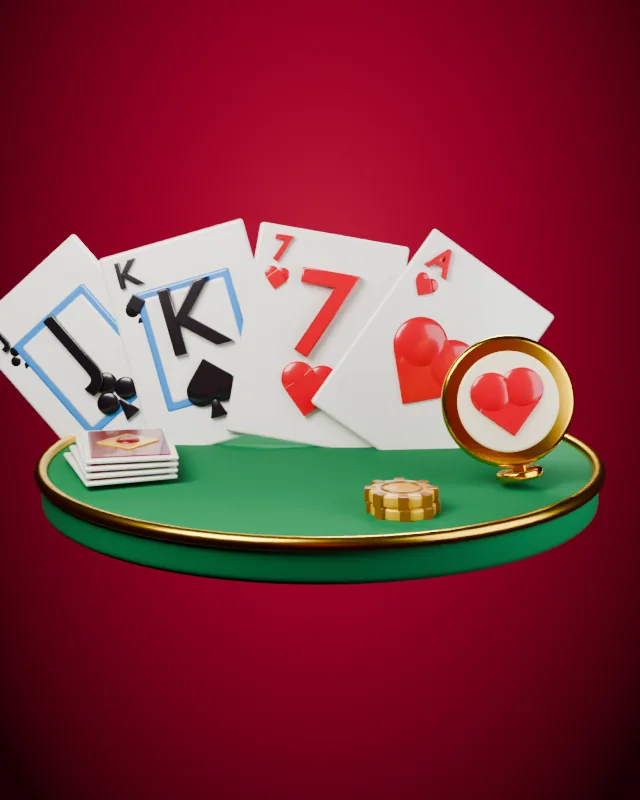
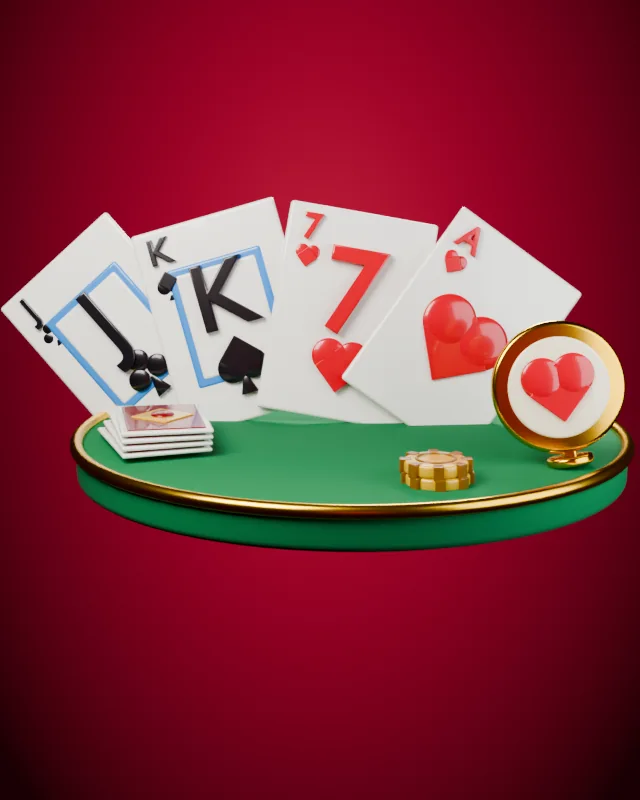
Register Poker World Tour
Claude-Session: https://claude.ai/code/session_01MHknEQHwoRP7PDrNv3vHVE

Changed region(s): [[0.0, 0.25, 1.0, 0.75]]

diff --git a/games/poker/ui/str_app.js b/games/poker/ui/str_app.js
@@ -40,13 +40,13 @@ export default {
     'moment.qualK': 'Classificação', 'moment.qual': 'Você está no Mundial!', 'moment.qualText': 'O convite chegou. A cerimônia de entrada espera por você no Campeonato Mundial.',
     'moment.titleK': 'Título conquistado', 'moment.titleText': 'Você venceu {e}.',
     'moment.storyK': 'A história continua', 'moment.levelK': 'Subiu de nível', 'moment.level': 'Nível {n}', 'moment.levelText': 'Novos prêmios cosméticos podem estar à espera. Nunca há vantagem nas cartas.',
-    'moment.achK': 'Conquistas', 'moment.ach': '{n} conquista(s) nova(s)', 'moment.rewK': 'Recompensas', 'moment.rew': 'Novos itens', 'moment.rewHint': 'Equipe no seu perfil.',
+    'moment.achK': 'Conquistas', 'moment.ach': (p) => (p.n === 1 ? '1 nova conquista' : p.n + ' novas conquistas'), 'moment.rewK': 'Recompensas', 'moment.rew': 'Novos itens', 'moment.rewHint': 'Equipe no seu perfil.',
     'moment.seasonK': 'Temporada {n} encerrada', 'moment.seasonChamp': 'Campeão da temporada!', 'moment.seasonEnd': 'Você terminou em {r}', 'moment.seasonText': '{p} pontos · {e} torneios · {w} vitórias',
     'moment.tutK': 'Tutorial', 'moment.tut': 'Você aprendeu o básico', 'moment.tutText': 'Agora é a hora de ir para a Carreira e subir até o Mundial.',
     'prof.title': 'Perfil', 'prof.edit': 'Editar nome', 'prof.name': 'Nome do jogador', 'prof.rep': 'Reputação {n}', 'prof.stats': 'Estatísticas', 'prof.custom': 'Personalização', 'prof.ach': 'Conquistas', 'prof.results': 'Resultados', 'prof.settings': 'Ajustes', 'prof.reset': 'Apagar carreira',
     'prof.resetTitle': 'Apagar carreira?', 'prof.resetText': 'Todo o progresso, títulos e rankings serão perdidos.', 'prof.resetOk': 'Continuar', 'prof.resetTitle2': 'Tem certeza?', 'prof.resetText2': 'Esta ação não pode ser desfeita.', 'prof.resetOk2': 'Apagar tudo',
     'st2.played': 'Torneios', 'st2.wins': 'Vitórias', 'st2.final': 'Mesas finais', 'st2.cash': 'Premiações', 'st2.best': 'Melhor posição', 'st2.winnings': 'Ganhos', 'st2.ko': 'Eliminações', 'st2.rivals': 'Rivais', 'st2.hands': 'Mãos ganhas', 'st2.pot': 'Maior pote', 'st2.titles': 'Títulos', 'st2.duels': 'Duelos',
-    'cs.avatar': 'Avatar', 'cs.frame': 'Moldura', 'cs.theme': 'Mesa', 'cs.back': 'Verso das cartas', 'cs.deck': 'Baralho', 'cs.win': 'Animação de vitória', 'cs.title': 'Título', 'cs.locked': 'Bloqueado: {r}',
+    'cs.avatar': 'Avatar', 'cs.frame': 'Moldura', 'cs.theme': 'Mesa', 'cs.back': 'Verso das cartas', 'cs.deck': 'Baralho', 'cs.win': 'Animação de vitória', 'cs.title': 'Título', 'cs.table': 'Mesa especial', 'cs.locked': 'Bloqueado: {r}',
     'set.auto': 'Próxima mão automática', 'legal.virtual': 'Somente fichas virtuais. Sem dinheiro real e sem prêmios reais.',
     'sg.title': 'Sit & Go',
     'res.of': 'de {n}', 'res.finalTable': 'mesa final', 'res.cashed': 'nos prêmios', 'res.winner': 'Campeão do torneio!', 'res.prize': 'Prêmio', 'res.points': 'Pontos', 'res.ko': 'Eliminações', 'res.hands': 'Mãos', 'res.xp': '+{n} XP', 'res.rep': '+{n} de reputação', 'res.levelUp': 'Subiu de nível!', 'res.rivals': 'Rivais na mesa', 'res.rivalPlace': 'Terminou em {p}', 'res.youKo': 'Você eliminou', 'res.koYou': 'Eliminou você', 'res.beat': 'Você ficou à frente', 'res.lostTo': 'Ficou à sua frente', 'res.unlocked': 'Abriu: {c}', 'res.lastHand': 'Mão decisiva', 'res.noShow': 'A mão terminou sem showdown.',
@@ -106,13 +106,13 @@ export default {
     'moment.qualK': 'Qualification', 'moment.qual': 'You are in the Worlds!', 'moment.qualText': 'The invitation has arrived. The entry ceremony awaits you at the World Championship.',
     'moment.titleK': 'Title won', 'moment.titleText': 'You won {e}.',
     'moment.storyK': 'The story goes on', 'moment.levelK': 'Level up', 'moment.level': 'Level {n}', 'moment.levelText': 'New cosmetic rewards may be waiting. Levels never change the cards.',
-    'moment.achK': 'Achievements', 'moment.ach': '{n} new achievement(s)', 'moment.rewK': 'Rewards', 'moment.rew': 'New items', 'moment.rewHint': 'Equip them on your profile.',
+    'moment.achK': 'Achievements', 'moment.ach': (p) => (p.n === 1 ? '1 new achievement' : p.n + ' new achievements'), 'moment.rewK': 'Rewards', 'moment.rew': 'New items', 'moment.rewHint': 'Equip them on your profile.',
     'moment.seasonK': 'Season {n} over', 'moment.seasonChamp': 'Season champion!', 'moment.seasonEnd': 'You finished {r}', 'moment.seasonText': '{p} points · {e} tournaments · {w} wins',
     'moment.tutK': 'Tutorial', 'moment.tut': 'You know the basics', 'moment.tutText': 'Time to head to the Career and climb all the way to the Worlds.',
     'prof.title': 'Profile', 'prof.edit': 'Edit name', 'prof.name': 'Player name', 'prof.rep': 'Reputation {n}', 'prof.stats': 'Statistics', 'prof.custom': 'Customization', 'prof.ach': 'Achievements', 'prof.results': 'Results', 'prof.settings': 'Settings', 'prof.reset': 'Erase career',
     'prof.resetTitle': 'Erase career?', 'prof.resetText': 'All progress, titles and rankings will be lost.', 'prof.resetOk': 'Continue', 'prof.resetTitle2': 'Are you sure?', 'prof.resetText2': 'This cannot be undone.', 'prof.resetOk2': 'Erase everything',
     'st2.played': 'Tournaments', 'st2.wins': 'Wins', 'st2.final': 'Final tables', 'st2.cash': 'Cashes', 'st2.best': 'Best finish', 'st2.winnings': 'Winnings', 'st2.ko': 'Knockouts', 'st2.rivals': 'Rivals met', 'st2.hands': 'Hands won', 'st2.pot': 'Biggest pot', 'st2.titles': 'Titles', 'st2.duels': 'Duels',
-    'cs.avatar': 'Avatar', 'cs.frame': 'Frame', 'cs.theme': 'Table', 'cs.back': 'Card back', 'cs.deck': 'Deck', 'cs.win': 'Win animation', 'cs.title': 'Title', 'cs.locked': 'Locked: {r}',
+    'cs.avatar': 'Avatar', 'cs.frame': 'Frame', 'cs.theme': 'Table', 'cs.back': 'Card back', 'cs.deck': 'Deck', 'cs.win': 'Win animation', 'cs.title': 'Title', 'cs.table': 'Special table', 'cs.locked': 'Locked: {r}',
     'set.auto': 'Automatic next hand', 'legal.virtual': 'Virtual chips only. No real money and no real prizes.',
     'sg.title': 'Sit & Go',
     'res.of': 'of {n}', 'res.finalTable': 'final table', 'res.cashed': 'in the money', 'res.winner': 'Tournament champion!', 'res.prize': 'Prize', 'res.points': 'Points', 'res.ko': 'Knockouts', 'res.hands': 'Hands', 'res.xp': '+{n} XP', 'res.rep': '+{n} reputation', 'res.levelUp': 'Level up!', 'res.rivals': 'Rivals at the table', 'res.rivalPlace': 'Finished {p}', 'res.youKo': 'You knocked out', 'res.koYou': 'Knocked you out', 'res.beat': 'You finished ahead', 'res.lostTo': 'Finished ahead of you', 'res.unlocked': 'Unlocked: {c}', 'res.lastHand': 'The decisive hand', 'res.noShow': 'The hand ended without a showdown.',
@@ -172,13 +172,13 @@ export default {
     'moment.qualK': 'Clasificación', 'moment.qual': '¡Estás en el Mundial!', 'moment.qualText': 'Llegó la invitación. La ceremonia de entrada te espera en el Campeonato Mundial.',
     'moment.titleK': 'Título conseguido', 'moment.titleText': 'Ganaste {e}.',
     'moment.storyK': 'La historia continúa', 'moment.levelK': 'Subida de nivel', 'moment.level': 'Nivel {n}', 'moment.levelText': 'Pueden esperarte nuevos premios cosméticos. Los niveles nunca cambian las cartas.',
-    'moment.achK': 'Logros', 'moment.ach': '{n} logro(s) nuevo(s)', 'moment.rewK': 'Recompensas', 'moment.rew': 'Nuevos objetos', 'moment.rewHint': 'Equípalos en tu perfil.',
+    'moment.achK': 'Logros', 'moment.ach': (p) => (p.n === 1 ? '1 logro nuevo' : p.n + ' logros nuevos'), 'moment.rewK': 'Recompensas', 'moment.rew': 'Nuevos objetos', 'moment.rewHint': 'Equípalos en tu perfil.',
     'moment.seasonK': 'Temporada {n} terminada', 'moment.seasonChamp': '¡Campeón de la temporada!', 'moment.seasonEnd': 'Terminaste {r}', 'moment.seasonText': '{p} puntos · {e} torneos · {w} victorias',
     'moment.tutK': 'Tutorial', 'moment.tut': 'Ya sabes lo básico', 'moment.tutText': 'Es hora de ir a la Carrera y subir hasta el Mundial.',
     'prof.title': 'Perfil', 'prof.edit': 'Editar nombre', 'prof.name': 'Nombre del jugador', 'prof.rep': 'Reputación {n}', 'prof.stats': 'Estadísticas', 'prof.custom': 'Personalización', 'prof.ach': 'Logros', 'prof.results': 'Resultados', 'prof.settings': 'Ajustes', 'prof.reset': 'Borrar carrera',
     'prof.resetTitle': '¿Borrar la carrera?', 'prof.resetText': 'Se perderán todo el progreso, los títulos y las clasificaciones.', 'prof.resetOk': 'Continuar', 'prof.resetTitle2': '¿Seguro?', 'prof.resetText2': 'Esta acción no se puede deshacer.', 'prof.resetOk2': 'Borrar todo',
     'st2.played': 'Torneos', 'st2.wins': 'Victorias', 'st2.final': 'Mesas finales', 'st2.cash': 'Premios', 'st2.best': 'Mejor puesto', 'st2.winnings': 'Ganancias', 'st2.ko': 'Eliminaciones', 'st2.rivals': 'Rivales', 'st2.hands': 'Manos ganadas', 'st2.pot': 'Mayor bote', 'st2.titles': 'Títulos', 'st2.duels': 'Duelos',
-    'cs.avatar': 'Avatar', 'cs.frame': 'Marco', 'cs.theme': 'Mesa', 'cs.back': 'Reverso de cartas', 'cs.deck': 'Baraja', 'cs.win': 'Animación de victoria', 'cs.title': 'Título', 'cs.locked': 'Bloqueado: {r}',
+    'cs.avatar': 'Avatar', 'cs.frame': 'Marco', 'cs.theme': 'Mesa', 'cs.back': 'Reverso de cartas', 'cs.deck': 'Baraja', 'cs.win': 'Animación de victoria', 'cs.title': 'Título', 'cs.table': 'Mesa especial', 'cs.locked': 'Bloqueado: {r}',
     'set.auto': 'Siguiente mano automática', 'legal.virtual': 'Solo fichas virtuales. Sin dinero real ni premios reales.',
     'sg.title': 'Sit & Go',
     'res.of': 'de {n}', 'res.finalTable': 'mesa final', 'res.cashed': 'en premios', 'res.winner': '¡Campeón del torneo!', 'res.prize': 'Premio', 'res.points': 'Puntos', 'res.ko': 'Eliminaciones', 'res.hands': 'Manos', 'res.xp': '+{n} XP', 'res.rep': '+{n} de reputación', 'res.levelUp': '¡Subiste de nivel!', 'res.rivals': 'Rivales en la mesa', 'res.rivalPlace': 'Terminó {p}', 'res.youKo': 'Lo eliminaste', 'res.koYou': 'Te eliminó', 'res.beat': 'Terminaste por delante', 'res.lostTo': 'Terminó por delante', 'res.unlocked': 'Abierto: {c}', 'res.lastHand': 'La mano decisiva', 'res.noShow': 'La mano terminó sin showdown.',

diff --git a/games/poker/style.css b/games/poker/style.css
@@ -83,8 +83,8 @@
 [data-back='royal'] { --bk1: #232a4d; --bk2: #0b0f26; --bk3: #ffe9a3; }
 .pk-card.mini { --cw: 24px; }
 .pk-card.mini .pk-back-in { inset: 9%; }
-.pk-card.board { --cw: 56px; }
-.pk-card.hero { --cw: 86px; }
+.pk-card.board { --cw: 56px; --cw: clamp(40px, 8.6cqh, 56px); }
+.pk-card.hero { --cw: 86px; --cw: clamp(60px, 14cqh, 86px); }
 .pk-card.hl { box-shadow: 0 0 0 2px var(--pk-gold), 0 0 16px rgba(243, 194, 74, 0.7), 0 4px 10px rgba(0, 0, 0, 0.45); transform: translateY(-4px); }
 .pk-card.dim { filter: brightness(0.55); }
 .pk-flip { perspective: 400px; width: 24px; height: 34px; }
@@ -95,7 +95,7 @@
 .pk-flip .pk-card.mini { --cw: 28px; }
 
 /* ---------- table ---------- */
-.pk-table { position: relative; flex: 1; min-height: 0; overflow: visible; }
+.pk-table { position: relative; flex: 1; min-height: 0; overflow: visible; container-type: size; }
 .pk-felt {
   position: absolute; left: 4%; right: 4%; top: 6%; bottom: 2%;
   border-radius: 50% / 40%;
@@ -123,9 +123,9 @@
 .pk-sidepots { display: flex; gap: 5px; flex-wrap: wrap; justify-content: center; max-width: 80%; }
 .pk-sp { font-size: 10.5px; font-weight: 800; padding: 2px 8px; border-radius: 99px; background: rgba(0, 0, 0, 0.42); color: var(--text-2); }
 .pk-board { position: absolute; left: 50%; top: 40%; transform: translateX(-50%); display: flex; gap: 4px; }
-.pk-slot { width: 56px; height: 78px; border-radius: 6px; border: 1.5px dashed rgba(255, 255, 255, 0.06); background: rgba(0, 0, 0, 0.08); }
+.pk-slot { width: 56px; height: 78px; width: clamp(40px, 8.6cqh, 56px); height: calc(clamp(40px, 8.6cqh, 56px) * 1.4); border-radius: 6px; border: 1.5px dashed rgba(255, 255, 255, 0.06); background: rgba(0, 0, 0, 0.08); }
 .pk-slot:has(.pk-card) { border-color: transparent; background: none; }
-@media (max-width: 380px) { .pk-slot, .pk-card.board { --cw: 52px; width: 52px; } .pk-slot { height: 73px; } .pk-board { gap: 3px; } }
+@media (max-width: 380px) { .pk-board { gap: 3px; } }
 .pk-layer-bets, .pk-layer-seats, .pk-fx { position: absolute; inset: 0; pointer-events: none; }
 .pk-fx { z-index: 30; }
 .pk-chips { display: inline-flex; flex-direction: column-reverse; align-items: center; width: 18px; }
@@ -235,23 +235,23 @@
 .pk-timer { height: 4px; border-radius: 4px; background: rgba(255, 255, 255, 0.1); margin: 0 2px 7px; overflow: hidden; }
 .pk-timer i { display: block; height: 100%; background: var(--pk-gold); transform-origin: 0 50%; }
 .pk-timer.low i { background: #ff5a4a; }
-.pk-sheet { margin: 0 0 9px; padding: 10px 12px 10px; border-radius: 16px; background: linear-gradient(180deg, rgba(26, 26, 32, 0.98), rgba(14, 14, 18, 0.98)); border: 1px solid var(--line); box-shadow: 0 -10px 30px #000a; animation: pkUp 0.18s ease-out; }
+.pk-sheet { margin: 0 0 8px; padding: 8px 12px 8px; border-radius: 16px; background: linear-gradient(180deg, rgba(26, 26, 32, 0.98), rgba(14, 14, 18, 0.98)); border: 1px solid var(--line); box-shadow: 0 -10px 30px #000a; animation: pkUp 0.18s ease-out; }
 @keyframes pkUp { from { transform: translateY(14px); opacity: 0; } }
 .pk-sheet-top { display: flex; align-items: center; justify-content: space-between; gap: 10px; }
 .pk-sheet-val small { display: block; font-size: 10.5px; font-weight: 800; color: var(--text-3); text-transform: uppercase; letter-spacing: 0.07em; }
-.pk-sheet-val b { font-size: 26px; font-weight: 900; color: var(--pk-gold); font-variant-numeric: tabular-nums; line-height: 1.05; }
+.pk-sheet-val b { font-size: 24px; font-weight: 900; color: var(--pk-gold); font-variant-numeric: tabular-nums; line-height: 1.05; }
 .pk-step { display: flex; gap: 8px; }
-.pk-stepb { width: 46px; height: 42px; border-radius: 12px; border: 1px solid rgba(255, 255, 255, 0.16); background: rgba(255, 255, 255, 0.07); color: #fff; display: grid; place-items: center; cursor: pointer; }
+.pk-stepb { width: 46px; height: 38px; border-radius: 12px; border: 1px solid rgba(255, 255, 255, 0.16); background: rgba(255, 255, 255, 0.07); color: #fff; display: grid; place-items: center; cursor: pointer; }
 .pk-stepb:disabled { opacity: 0.35; }
 .pk-stepb svg { width: 22px; height: 22px; }
-.pk-slider { -webkit-appearance: none; appearance: none; width: 100%; height: 34px; background: transparent; margin: 6px 0 4px; --p: 0%; touch-action: none; }
+.pk-slider { -webkit-appearance: none; appearance: none; width: 100%; height: 30px; background: transparent; margin: 2px 0 2px; --p: 0%; touch-action: none; }
 .pk-slider::-webkit-slider-runnable-track { height: 8px; border-radius: 8px; background: linear-gradient(90deg, var(--pk-gold) var(--p), rgba(255, 255, 255, 0.14) var(--p)); }
 .pk-slider::-moz-range-track { height: 8px; border-radius: 8px; background: rgba(255, 255, 255, 0.14); }
 .pk-slider::-moz-range-progress { height: 8px; border-radius: 8px; background: var(--pk-gold); }
 .pk-slider::-webkit-slider-thumb { -webkit-appearance: none; width: 30px; height: 30px; margin-top: -11px; border-radius: 50%; background: var(--gold-grad); border: 2px solid #fff6cf; box-shadow: 0 2px 8px #000a; }
 .pk-slider::-moz-range-thumb { width: 28px; height: 28px; border-radius: 50%; background: #f3c24a; border: 2px solid #fff6cf; }
 .pk-quick { display: flex; gap: 6px; }
-.pk-q { flex: 1; min-width: 0; height: 42px; border-radius: 11px; border: 1px solid rgba(255, 255, 255, 0.14); background: rgba(255, 255, 255, 0.06); color: #fff; display: flex; flex-direction: column; align-items: center; justify-content: center; cursor: pointer; line-height: 1.05; }
+.pk-q { flex: 1; min-width: 0; height: 38px; border-radius: 11px; border: 1px solid rgba(255, 255, 255, 0.14); background: rgba(255, 255, 255, 0.06); color: #fff; display: flex; flex-direction: column; align-items: center; justify-content: center; cursor: pointer; line-height: 1.05; }
 .pk-q b { font-size: 13px; font-weight: 900; }
 .pk-q small { font-size: 10px; opacity: 0.7; font-weight: 700; }
 .pk-q.on { background: rgba(243, 194, 74, 0.22); border-color: var(--pk-gold); }

diff --git a/js/games.js b/js/games.js
@@ -20,6 +20,7 @@ import blackjackEntry from '../games/blackjack/entry.js';
 import buracoEntry from '../games/buraco/entry.js';
 import suecaEntry from '../games/sueca/entry.js';
 import biscaEntry from '../games/bisca/entry.js';
+import pokerEntry from '../games/poker/entry.js';
 
 export const GAMES = [
   {
@@ -496,7 +497,7 @@ export const GAMES = [
 ];
 
 // Games that ship their own entry.js
-GAMES.push(minesEntry, lightsEntry, stackEntry, mazeEntry, trucoEntry, colorsEntry, blackjackEntry, buracoEntry, suecaEntry, biscaEntry);
+GAMES.push(minesEntry, lightsEntry, stackEntry, mazeEntry, trucoEntry, colorsEntry, blackjackEntry, buracoEntry, suecaEntry, biscaEntry, pokerEntry);
 
 export const CATEGORIES = [
   { id: 'all', label: { pt: 'Todos', en: 'All', es: 'Todos' } },

diff --git a/games/poker/ui/tablescreen.js b/games/poker/ui/tablescreen.js
@@ -142,7 +142,7 @@ export function createTableScreen(root, deps) {
     const step = coachQ.shift();
     coachEl = h('div', { class: 'pk-coach', role: 'status' }, h('div', { class: 'pk-grow' }, h('b', {}, t('coach.tip')), step.text), h('button', { type: 'button', onclick: () => dismissCoach() }, t('coach.ok')));
     tableHost.append(coachEl);
-    coachTid = setTimeout(() => dismissCoach(), 11000);
+    coachTid = setTimeout(() => dismissCoach(), 8000);
     timers.add(coachTid);
   }
   function dismissCoach() {

diff --git a/games/poker/ui/actionbar.js b/games/poker/ui/actionbar.js
@@ -78,7 +78,7 @@ export function createActionBar(host, { t, onSound = () => {}, prefs }) {
   }
   function sizeText(v) {
     if (v >= cur.maxTo) return `${t('act.allin')} · ${fmt(v, true)}`;
-    return `${cur.facing ? t('raiseTo') : t('betAmount')} ${fmt(v, true)}`;
+    return `${cur.facing ? t('act.raise') : t('act.bet')} ${fmt(v, true)}`;
   }
 
   function setValue(v, fromSlider = false) {

diff --git a/tools/covers/naval.py b/tools/covers/naval.py
@@ -1,42 +1,104 @@
-import sys, os
+import sys, os, random
 sys.path.insert(0, os.path.dirname(os.path.abspath(__file__)))
-from rig import *
-S = int(os.environ.get('SAMPLES', 128))
-new_scene('#1f8fd0', '#04122e', samples=S)
-water = glossy('#0f5fb5', 0.12, 0.9); foam = glossy('#eaf6ff', 0.3, 0.3)
-grey = glossy('#8d9bb0', 0.28, 0.6); dgrey = glossy('#5b677c', 0.3, 0.5)
-red = glossy('#d63a3a', 0.25, 0.6); steel = metal('#2c3340', 0.25)
-cy = emit('#35e6ff', 1.6); white = glossy('#f4f6fa', 0.3, 0.5); yel = glossy('#ffc22e', 0.3, 0.5)
+from props import *
+import bmesh
+S = int(os.environ.get('SAMPLES', os.environ.get('S', 128)))
+new_scene('#1f9ae0', '#031030', samples=S)
+random.seed(3)
+water = glossy('#0d5fc0', 0.1, 0.9, name='water'); foam = glossy('#f2fbff', 0.35, 0.3, name='foam')
+grey = glossy('#9aa8bd', 0.25, 0.7, name='grey'); dgrey = glossy('#566278', 0.3, 0.5, name='dgrey')
+navy = glossy('#2a3f66', 0.25, 0.7, name='navyhull'); red = glossy('#d63a3a', 0.25, 0.6, name='red')
+steel = metal('#2c3340', 0.25, name='steel'); white = glossy('#f4f6fa', 0.3, 0.5, name='white')
+radar = flame('#12c4ff', 1.1, 'radar'); radar2 = flame('#0a8fd8', 1.0, 'radar2')
+drop = glossy('#bfe9ff', 0.1, 0.9, name='drop')
+
+
+def hull(L, B, D, mat):
+    """Pointed-bow ship hull lofted from cross-sections; x along length, bow at +x."""
+    n = 14
+    bm = bmesh.new()
+    rings = []
+    prof = [(0.0, -1.0), (0.55, -0.85), (0.92, -0.35), (1.0, 0.25), (0.97, 0.5), (0.0, 0.5)]  # half profile (y*B/2, z*D)
+    for i in range(n):
+        t = i / (n - 1)               # 0 stern -> 1 bow
+        x = (t - 0.5) * L
+        if t < 0.55:
+            w = 1.0 - 0.18 * (1 - t / 0.55) ** 2
+        else:
+            u = (t - 0.55) / 0.45
+            w = max(0.03, (1 - u ** 1.7) ** 0.62)
+        rake = 0.55 * (max(0, t - 0.7) / 0.3) ** 2        # bow rises
+        ring = []
+        pts = [(-y, z) for y, z in reversed(prof[1:])] + prof  # left side then right side
+        for y, z in pts:
+            zz = z * D + (rake * D if z > 0 else rake * D * 0.4)
+            ring.append(bm.verts.new((x, y * B / 2 * w, zz)))
+        rings.append(ring)
+    m = len(rings[0])
+    for i in range(n - 1):
+        for j in range(m - 1):
+            bm.faces.new((rings[i][j], rings[i][j + 1], rings[i + 1][j + 1], rings[i + 1][j]))
+    bm.faces.new(rings[0])
+    bm.faces.new(list(reversed(rings[-1])))
+    mesh = bpy.data.meshes.new('hull')
+    bm.to_mesh(mesh)
+    bm.free()
+    o = bpy.data.objects.new('hull', mesh)
+    bpy.context.scene.collection.objects.link(o)
+    sm = o.modifiers.new('sub', 'SUBSURF')
+    sm.levels = sm.render_levels = 2
+    for p in mesh.polygons:
+        p.use_smooth = True
+    o.data.materials.append(mat)
+    bpy.context.view_layer.objects.active = o
+    return o
+
+
+def ship(x, y, ang, sc, kind=0):
+    p = [hull(3.4, 1.0, 0.5, grey)]
+    p.append(box((3.0, 0.8, 0.07), dgrey, (-0.05, 0, 0.27), bevel=0.02))                   # deck
+    p.append(box((3.35, 0.86, 0.1), red, (-0.1, 0, -0.18), bevel=0.04))                    # waterline stripe
+    p[-1].scale = (0.97, 0.98, 1)
+    p.append(box((1.0, 0.64, 0.4), white, (-0.5, 0, 0.5), bevel=0.1))
+    p.append(box((0.62, 0.5, 0.3), white, (-0.55, 0, 0.85), bevel=0.09))
+    p.append(box((0.74, 0.56, 0.06), steel, (-0.55, 0, 1.03), bevel=0.02))
+    p.append(cylinder(0.035, 0.55, steel, (-0.55, 0, 1.3), bevel=0.0, seg=12))
+    p.append(cylinder(0.2, 0.2, red, (-0.55, 0, 1.35), rot=(0, 90, 0), bevel=0.02, seg=24).__class__ and cylinder(0.14, 0.4, red, (-1.1, 0, 0.62), bevel=0.04, seg=24))
+    p.append(torus(0.17, 0.03, steel, (-0.55, 0, 1.2), rot=(90, 0, 0)))
+    for tx, sz in ((0.8, 1.0), (1.35, 0.85)):
+        p.append(cylinder(0.27 * sz, 0.18, dgrey, (tx, 0, 0.36), bevel=0.05, seg=32))
+        p.append(box((0.4 * sz, 0.32 * sz, 0.14), grey, (tx, 0, 0.5), bevel=0.05))
+        p.append(cylinder(0.055, 0.85 * sz, steel, (tx + 0.55 * sz, 0.0, 0.52), rot=(0, 90, 0), bevel=0.0, seg=16))
+    return parent(p, loc=(x, y, 0), rot=(0, 0, ang), scale=sc)
+
+
 objs = []
-objs.append(cylinder(3.3, 0.9, water, (0, 0, -0.45), bevel=0.25))
-objs.append(torus(3.0, 0.06, cy, (0, 0, 0.0)))
-objs.append(torus(2.2, 0.05, cy, (0, 0, 0.0)))
-objs.append(torus(1.4, 0.04, cy, (0, 0, 0.0)))
-for a in (0, 90):
-    objs.append(box((6.0 if a == 0 else 0.06, 0.06 if a == 0 else 6.0, 0.03), cy, (0, 0, 0.0), bevel=0.0))
-def ship(x, y, ang, sc, hullc, big=True):
-    p = []
-    p.append(sphere(1, hullc, (0, 0, 0.1), scale=(2.3, 0.66, 0.5)))
-    p.append(box((2.9, 0.78, 0.12), dgrey, (0, 0, 0.5), bevel=0.04))
-    p.append(box((0.9, 0.62, 0.45), white, (-0.5, 0, 0.8), bevel=0.08))
-    p.append(box((0.5, 0.5, 0.35), white, (-0.5, 0, 1.2), bevel=0.08))
-    p.append(box((0.62, 0.55, 0.08), steel, (-0.5, 0, 1.43), bevel=0.02))
-    p.append(cylinder(0.04, 0.5, steel, (-0.5, 0, 1.7), bevel=0.0))
-    p.append(cylinder(0.13, 0.4, red, (-1.0, 0, 0.78), bevel=0.04))
-    for tx in (0.9, 1.5):
-        p.append(cylinder(0.3, 0.2, grey, (tx, 0, 0.62), bevel=0.05))
-        p.append(cylinder(0.07, 0.8, steel, (tx + 0.5, 0.0, 0.68), rot=(0, 90, 0), bevel=0.0))
-    p.append(box((3.2, 0.1, 0.12), red, (0, 0.62, 0.22), bevel=0.03))
-    e = parent(p, loc=(x, y, 0), rot=(0, 0, ang), scale=sc)
-    return e
-objs.append(ship(-0.4, -0.9, -12, 1.25, grey))
-objs.append(ship(0.9, 1.3, 6, 0.85, glossy('#a05c3a', 0.3, 0.5)))
-# splash: foam spheres + droplets
-import random; random.seed(3)
-for i in range(14):
-    a = random.uniform(0, 6.28); r = random.uniform(0.3, 0.7)
-    objs.append(sphere(random.uniform(0.1, 0.25), foam, (-2.3 + math.cos(a)*r, -1.7 + math.sin(a)*r*0.6, random.uniform(0.1, 0.9))))
-objs.append(torus(0.7, 0.12, foam, (-2.3, -1.7, 0.05)))
-objs.append(cone(0.3, 0.05, 1.2, foam, (-2.3, -1.7, 0.6)))
-parent(objs, loc=(0, 0, 0.8), rot=(24, 0, -8), scale=0.66)
+objs.append(cylinder(3.5, 0.9, water, (0, 0, -0.45), bevel=0.25, seg=96))
+objs.append(torus(3.5, 0.08, glossy('#e8f6ff', 0.2, 0.8, name='rimw'), (0, 0, 0.0)))
+for R, r in ((2.9, 0.045), (2.1, 0.04), (1.3, 0.035)):
+    objs.append(torus(R, r, radar, (0, 0, 0.02)))
+for a in (0, 90, 45, 135):
+    b = box((6.0, 0.035, 0.02), radar2, (0, 0, 0.02), bevel=0.0)
+    b.rotation_euler = (0, 0, math.radians(a))
+    objs.append(b)
+# sweep wedge
+sw = cone(2.9, 0.0, 0.02, flame('#0e9ee8', 0.6, 'sweep'), (0, 0, 0.02), seg=3)
+objs.append(ship(-0.6, -1.1, -10, 1.15))
+objs.append(ship(1.3, 1.5, 8, 0.8))
+# wake foam behind big ship
+for k in range(5):
+    objs.append(sphere(0.3 - k * 0.04, foam, (-2.5 - k * 0.45, -1.0 - k * 0.1, 0.03), scale=(1.8, 1.0, 0.18), seg=24))
+# crown splash (shell hit) front right
+sx, sy = 2.0, -1.6
+objs.append(torus(0.55, 0.12, foam, (sx, sy, 0.1), scale=(1, 1, 0.6)))
+for k in range(9):
+    a = k * 6.283 / 9
+    c = cone(0.17, 0.02, 0.9, foam, (sx + 0.42 * math.cos(a), sy + 0.42 * math.sin(a), 0.55))
+    c.rotation_euler = (math.sin(a) * -0.5, math.cos(a) * 0.5, 0)
+    objs.append(c)
+objs.append(cone(0.34, 0.08, 1.7, foam, (sx, sy, 0.95)))
+for k in range(10):
+    a = random.uniform(0, 6.28); r = random.uniform(0.5, 1.0)
+    objs.append(sphere(random.uniform(0.07, 0.14), drop, (sx + math.cos(a) * r, sy + math.sin(a) * r * 0.8, random.uniform(0.5, 1.6)), seg=16))
+fit_g = parent(objs, loc=(0, 0, 0.8), rot=(24, 0, -8), scale=0.7)
 render('naval')

diff --git a/tools/covers/colors.py b/tools/covers/colors.py
@@ -22,5 +22,5 @@ bd = [sphere(0.55, glossy('#ffffff', 0.2, 0.8, name='badge'), loc=(0, 0, 0), sca
       text('+4', glossy('#e8202c', 0.25, 0.7, name='badget'), size=0.55, extrude=0.05, loc=(0, -0.2, 0), bevel=0.015)]
 parent(bd, loc=(2.7, -1.1, 3.0), rot=(-9, 8, 0), scale=1.0)
 felt_podium('#0b1c66', '#ff6a2a', 4.0)
-fit(0.6, -0.1, 0.35)
+fit(0.65, 0.1, 0.3)
 render('colors')

diff --git a/tools/covers/bisca.py b/tools/covers/bisca.py
@@ -18,5 +18,5 @@ hand = [playing_card('Q', 'heart'), playing_card('7', 'club'), playing_card('K',
 fan(hand, [-22, 0, 22], base=(0.3, 2.6, 0.05), dx=0.05, dy=-0.12, scale=1.35)
 chip_stack(-2.7, -1.9, 0.05, ['#f2c230'] * 3, 0.9, 1, stripe='#8a5a10')
 felt_podium('#0d7f88', '#e8b830', 3.8)
-fit(0.66, -0.1, -0.2)
+fit(0.7, 0.1, -0.2)
 render('bisca')

diff --git a/tools/covers/sueca.py b/tools/covers/sueca.py
@@ -21,5 +21,5 @@ for i in range(4):
     parent(c, loc=(-2.4, -1.5 + 0.0, 0.1 + i * 0.09), rot=(-90, 0, 20 - i * 3), scale=0.8)
 chip_stack(1.0, -2.5, 0.05, ['#e8b830', '#e8b830'], 0.8, 3, stripe='#8a5a10')
 felt_podium('#0f7a46', '#e8b830', 3.8)
-fit(0.64, -0.1, 0.3)
+fit(0.69, 0.1, 0.3)
 render('sueca')

diff --git a/tools/covers/buraco.py b/tools/covers/buraco.py
@@ -14,5 +14,5 @@ for i, r in enumerate(['J', 'Q', 'K']):
 parent(joker(), loc=(2.4, -1.8, 0.05), rot=(-9, 12, 0), scale=1.05)
 chip_stack(0.5, -2.7, 0.05, ['#f2c230'] * 3, 0.8, 1, stripe='#8a5a10')
 felt_podium('#0f8a4a', '#e8b830', 4.0)
-fit(0.58, 0.15)
+fit(0.62, 0.3)
 render('buraco')
